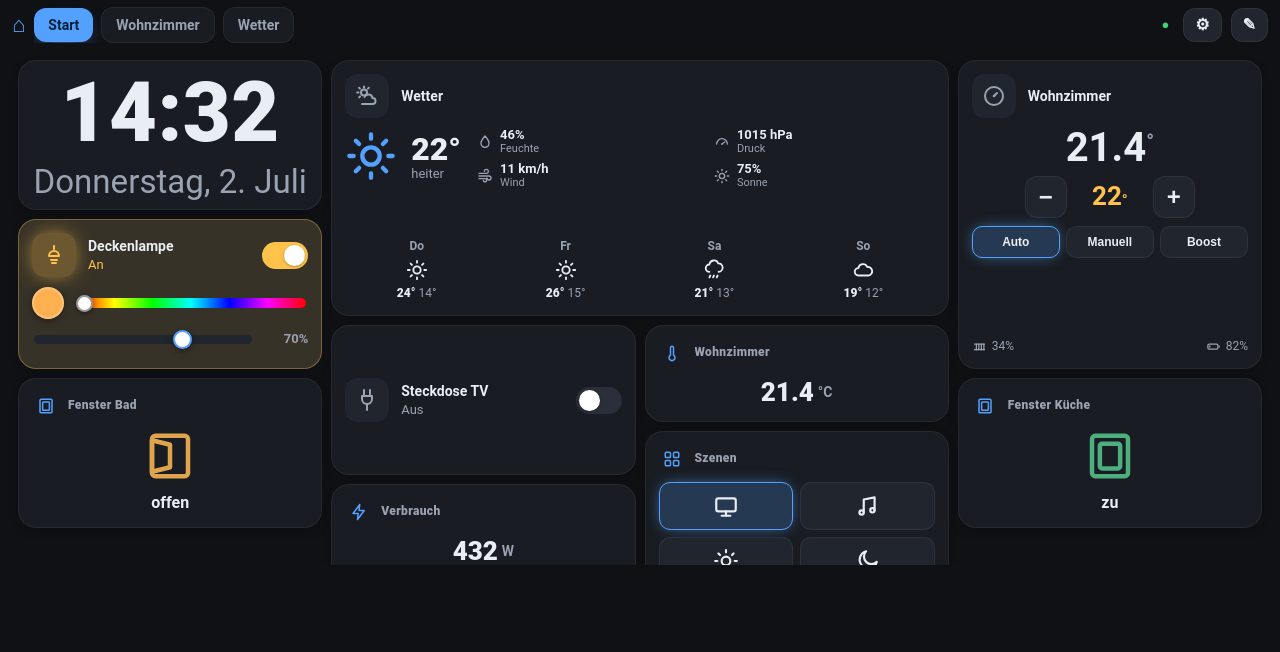
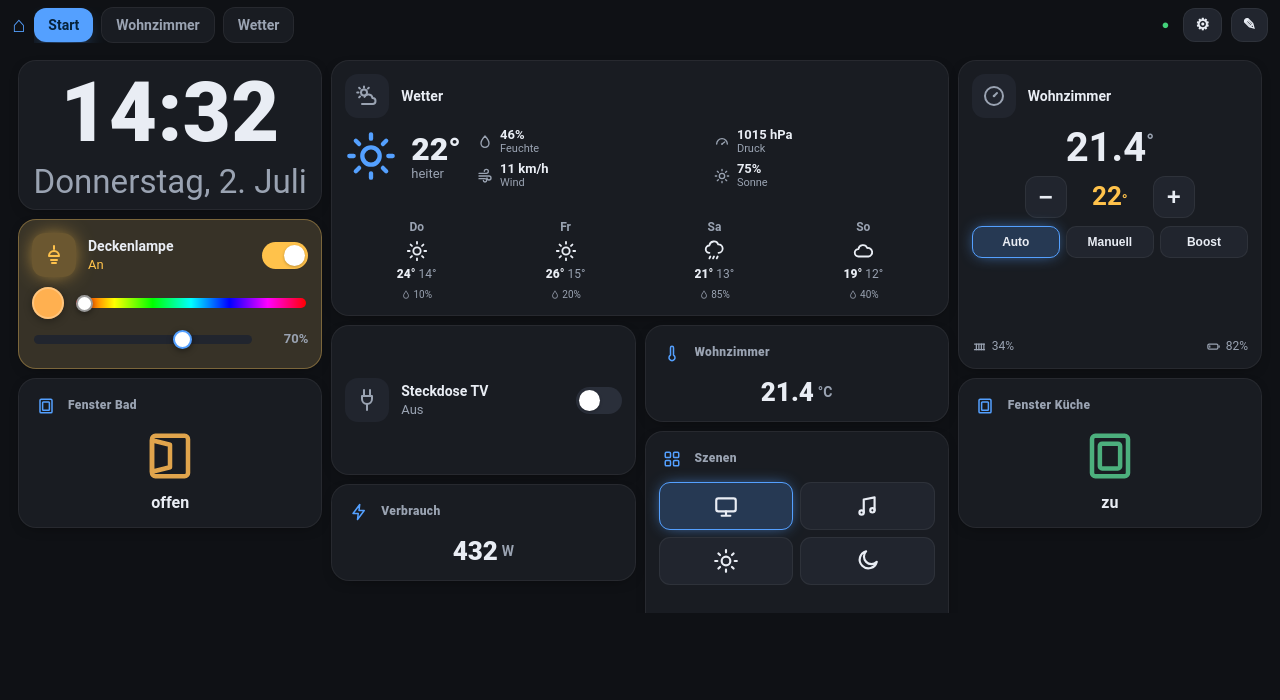
Tap-Feedback, Regenwahrscheinlichkeit in Vorhersage, Lade-Puls fuer Geraetekacheln
- Buttons (Szenen, Thermostat-Stepper/-Modi) schrumpfen beim Druecken kurz;
  Schalter-/Licht-/Notiz-Kacheln nutzen ihre bestehende .18s-Transition.
- Wetter: fcN_chOfRainDay als kleine Tropfen-Zeile unter jedem Vorhersage-Tag.
- Geraetekacheln pulsieren sanft (opacity), bis der erste Poll Daten liefert.
- README-Screenshot mit Regen-% aktualisiert.

diff --git a/public/css/style.css b/public/css/style.css
@@ -219,6 +219,20 @@ body.editing .grid-stack:not(.grid-stack-nested) {
 body:not(.editing) .grid-stack-item,
 body:not(.editing) .grid-stack-item-content { touch-action: auto !important; }
 
+/* tap feedback (view mode): pressed controls shrink briefly so touch feels responsive.
+   (.tile/.toggle already animate everything via their own .18s transition) */
+.scene, .th-step, .th-mode { transition: transform .08s; }
+body:not(.editing) .scene:active,
+body:not(.editing) .th-step:active,
+body:not(.editing) .th-mode:active { transform: scale(.92); }
+body:not(.editing) .tile-switch:active,
+body:not(.editing) .tile-note:active,
+body:not(.editing) .tile-light .toggle:active { transform: scale(.97); }
+
+/* loading skeleton: device tiles pulse gently until the first poll fills them */
+.tile-wait { animation: tile-wait 1.3s ease-in-out infinite; }
+@keyframes tile-wait { 50% { opacity: .45; } }
+
 /* rooms (tabs) are re-orderable by drag while editing */
 body.editing .tab { cursor: grab; }
 .tab.drag { opacity: .45; }
@@ -327,6 +341,8 @@ body.editing .chk-item input { pointer-events: none; } /* don't toggle while arr
 .tile-weather .wx-day .hl { font-size: 12px; white-space: nowrap; }
 .tile-weather .wx-day .hl b { font-weight: 800; }
 .tile-weather .wx-day .lo { color: var(--muted); }
+.tile-weather .wx-day .pop { display: flex; align-items: center; gap: 2px; font-size: 10px; color: var(--muted); }
+.tile-weather .wx-day .pop svg { width: 10px; height: 10px; }
 
 /* thermostat: vertical — Ist on top, Soll steppers, mode row, valve left/battery right */
 .tile-thermo { gap: 8px; }

diff --git a/public/js/tiles.js b/public/js/tiles.js
@@ -233,6 +233,8 @@ const Tiles = (() => {
     const el = document.createElement('div');
     el.className = 'grid-stack-item-content tile tile-' + tile.type + (tile.hideHeader ? ' no-head' : '');
     el.dataset.tileId = tile.id;
+    // Loading skeleton: pulse until the first poll delivers data (apply() clears it).
+    if (tile.device && tile.type !== 'readingsgroup' && tile.type !== 'group') el.classList.add('tile-wait');
 
     switch (tile.type) {
       case 'switch': {
@@ -455,6 +457,7 @@ const Tiles = (() => {
   }
 
   function apply(el, tile, dev, map) {
+    if (dev) el.classList.remove('tile-wait');   // first data arrived -> stop the loading pulse
     const v = readingValue(tile, dev);
     const state = el.querySelector('.t-state');
     switch (tile.type) {
@@ -561,8 +564,10 @@ const Tiles = (() => {
         for (let i = 0; i < (tile.fcDays || 7); i++) {
           const date = rv('fc' + i + '_date'); if (date == null) continue;
           const hi = num(rv('fc' + i + '_tempMax')), lo = num(rv('fc' + i + '_tempMin'));
+          const pop = num(rv('fc' + i + '_chOfRainDay'));       // PROPLANTA: Regenwahrscheinlichkeit in %
           fc += '<div class="wx-day"><div class="d">' + wxWeekday(date) + '</div>' + iconHtml(wxIcon(rv('fc' + i + '_weatherDay'))) +
-                '<div class="hl"><b>' + (hi != null ? hi + '°' : '–') + '</b> <span class="lo">' + (lo != null ? lo + '°' : '') + '</span></div></div>';
+                '<div class="hl"><b>' + (hi != null ? hi + '°' : '–') + '</b> <span class="lo">' + (lo != null ? lo + '°' : '') + '</span></div>' +
+                (pop != null ? '<div class="pop">' + iconHtml('droplet') + pop + '%</div>' : '') + '</div>';
         }
         set('.wx-fc', fc);
         break;